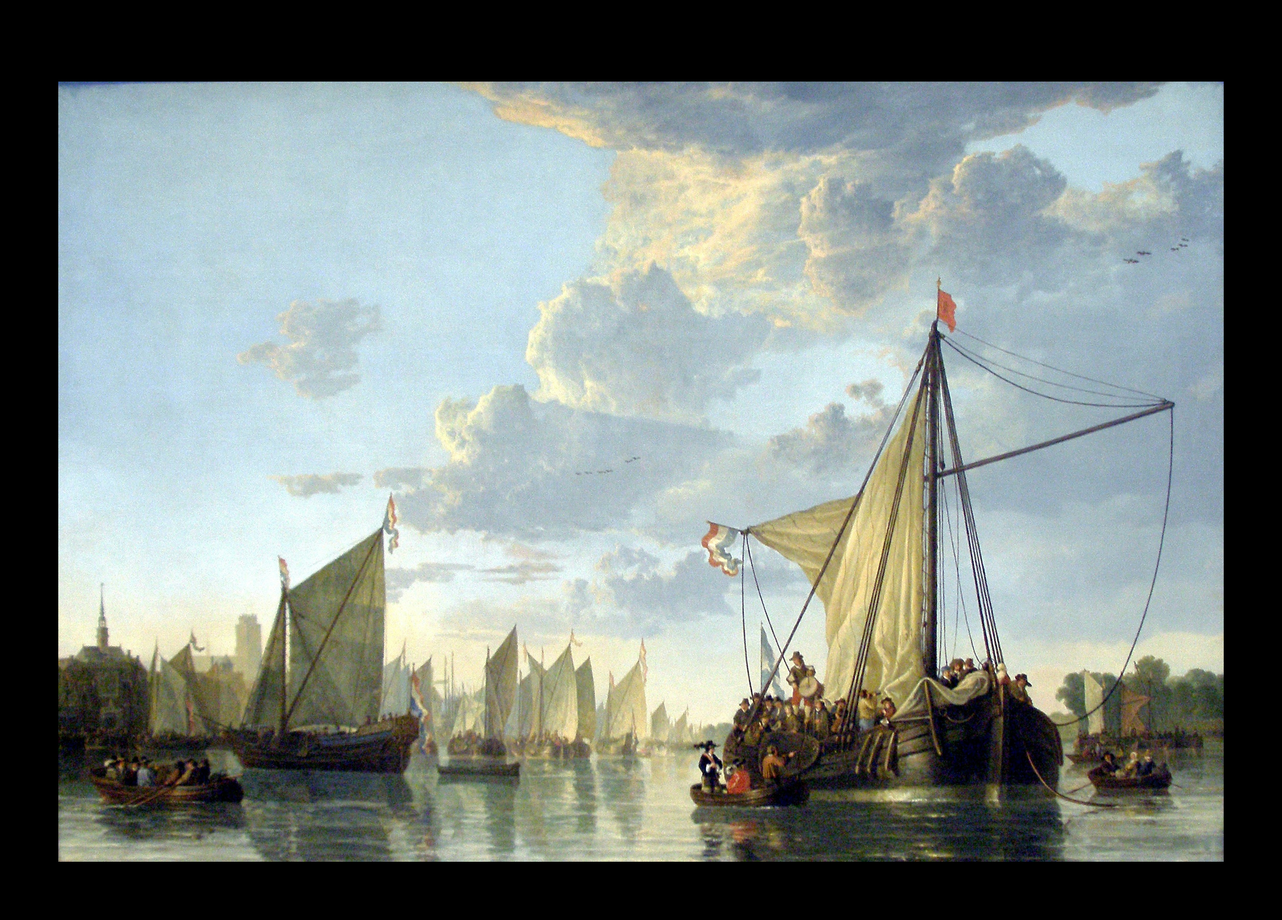
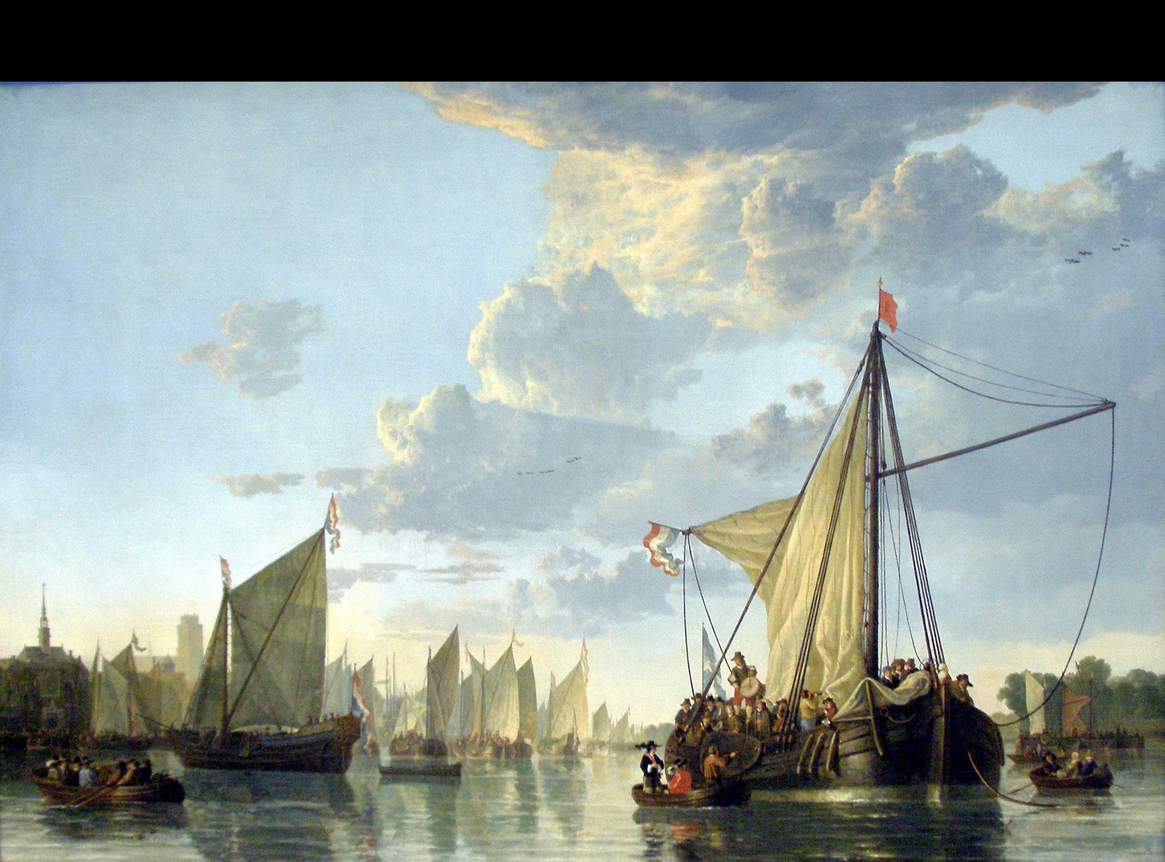
Updates process to only apply border to top.

diff --git a/src/main.rs b/src/main.rs
@@ -47,18 +47,17 @@ fn process_image(input_path: &Path) -> Result<(), Box<dyn std::error::Error>> {
         .map_err(|e| format!("Failed to load image: {}", e))?;
     println!("✓ Image loaded successfully");
 
-    // Calculate border sizes
+    // Calculate border size (only top border)
     let original_width = img.width();
     let original_height = img.height();
-    let side_border = (original_width * 5) / 100;  // 5% for left, right, bottom
-    let top_border = (original_width * 7) / 100;   // 7% for top
+    let top_border = (original_width * 7) / 100;   // 7% for top only
 
-    // Calculate new dimensions
-    let new_width = original_width + (2 * side_border);
-    let new_height = original_height + top_border + side_border;
+    // Calculate new dimensions (only height increases)
+    let new_width = original_width;  // No change to width
+    let new_height = original_height + top_border;  // Only add top border
 
     println!("Image dimensions: {}x{}", original_width, original_height);
-    println!("Border sizes: top={}px (7% of width), sides={}px (5% of width)", top_border, side_border);
+    println!("Border size: top={}px (7% of width)", top_border);
     println!("New dimensions: {}x{}", new_width, new_height);
 
     // Create new image with border
@@ -70,14 +69,14 @@ fn process_image(input_path: &Path) -> Result<(), Box<dyn std::error::Error>> {
             
             println!("Processing RGBA image with transparency support...");
             
-            // Copy original image to center (accounting for different border sizes)
+            // Copy original image starting at (0, top_border)
             for y in 0..original_height {
                 if y % (original_height / 10).max(1) == 0 {
                     println!("Progress: {}%", (y * 100) / original_height);
                 }
                 for x in 0..original_width {
                     let pixel = rgba_img.get_pixel(x, y);
-                    new_img.put_pixel(x + side_border, y + top_border, *pixel);
+                    new_img.put_pixel(x, y + top_border, *pixel);
                 }
             }
             
@@ -89,14 +88,14 @@ fn process_image(input_path: &Path) -> Result<(), Box<dyn std::error::Error>> {
             
             println!("Processing RGB image...");
             
-            // Copy original image to center (accounting for different border sizes)
+            // Copy original image starting at (0, top_border)
             for y in 0..original_height {
                 if y % (original_height / 10).max(1) == 0 {
                     println!("Progress: {}%", (y * 100) / original_height);
                 }
                 for x in 0..original_width {
                     let pixel = rgb_img.get_pixel(x, y);
-                    new_img.put_pixel(x + side_border, y + top_border, *pixel);
+                    new_img.put_pixel(x, y + top_border, *pixel);
                 }
             }
             
